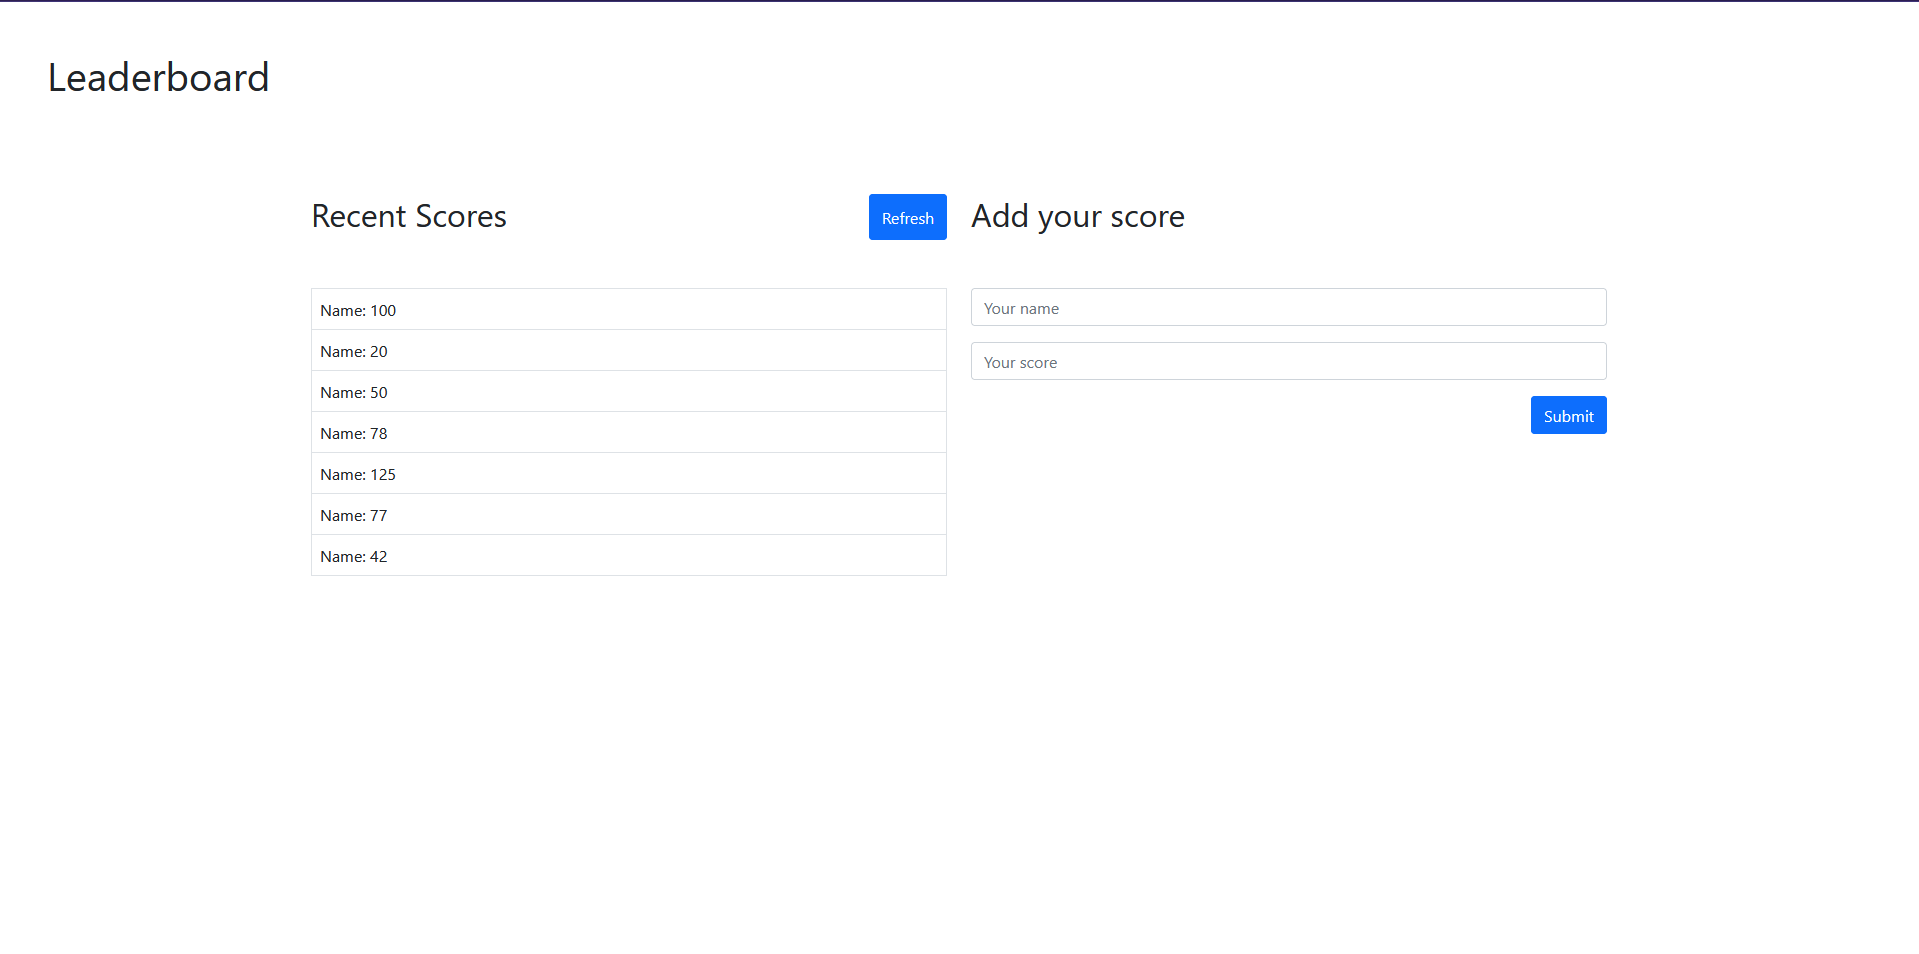
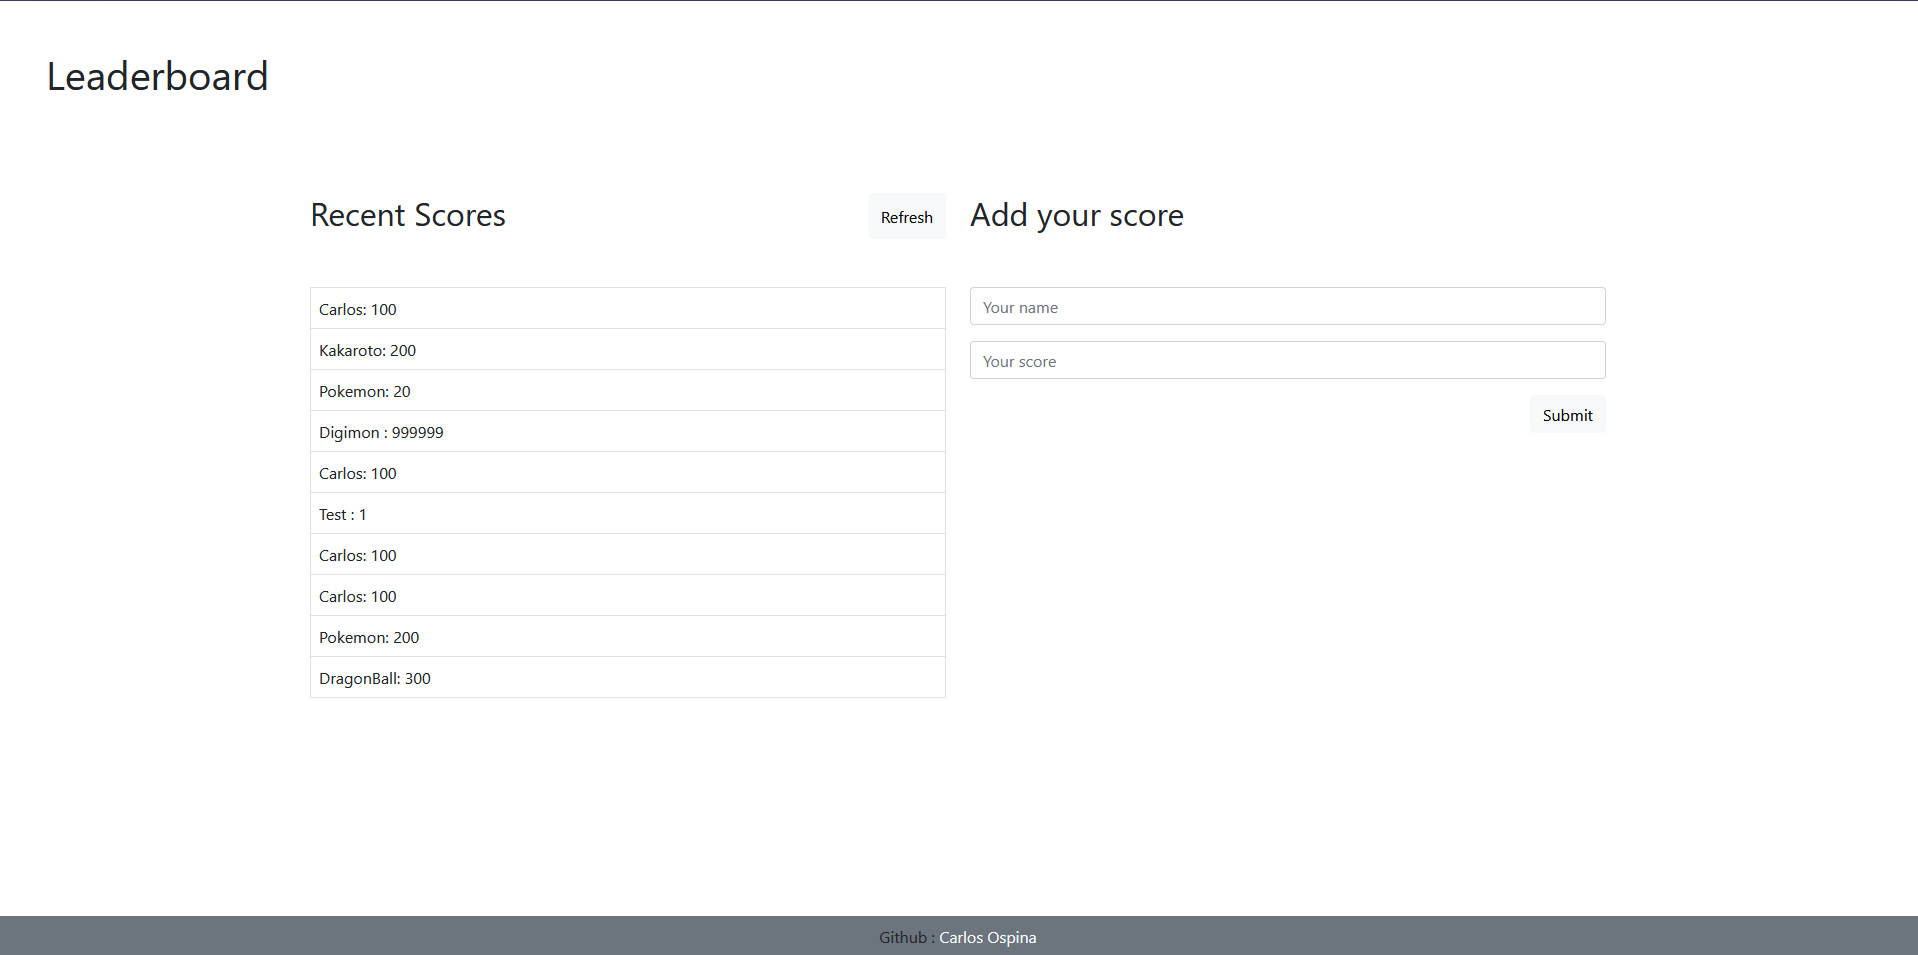
consuming API

diff --git a/dist/index.bundle.js b/dist/index.bundle.js
@@ -1,1 +1,1 @@
-(()=>{"use strict";var e,t,r,n,o,a,i,s,u,c,f,l,d,p,v={426:(e,t,r)=>{r.d(t,{Z:()=>a});var n=r(645),o=r.n(n)()((function(e){return e[1]}));o.push([e.id,"* {\r\n  font-style: normal;\r\n}\r\n",""]);const a=o},645:e=>{e.exports=function(e){var t=[];return t.toString=function(){return this.map((function(t){var r=e(t);return t[2]?"@media ".concat(t[2]," {").concat(r,"}"):r})).join("")},t.i=function(e,r,n){"string"==typeof e&&(e=[[null,e,""]]);var o={};if(n)for(var a=0;a<this.length;a++){var i=this[a][0];null!=i&&(o[i]=!0)}for(var s=0;s<e.length;s++){var u=[].concat(e[s]);n&&o[u[0]]||(r&&(u[2]?u[2]="".concat(r," and ").concat(u[2]):u[2]=r),t.push(u))}},t}},379:e=>{var t=[];function r(e){for(var r=-1,n=0;n<t.length;n++)if(t[n].identifier===e){r=n;break}return r}function n(e,n){for(var a={},i=[],s=0;s<e.length;s++){var u=e[s],c=n.base?u[0]+n.base:u[0],f=a[c]||0,l="".concat(c," ").concat(f);a[c]=f+1;var d=r(l),p={css:u[1],media:u[2],sourceMap:u[3]};-1!==d?(t[d].references++,t[d].updater(p)):t.push({identifier:l,updater:o(p,n),references:1}),i.push(l)}return i}function o(e,t){var r=t.domAPI(t);return r.update(e),function(t){if(t){if(t.css===e.css&&t.media===e.media&&t.sourceMap===e.sourceMap)return;r.update(e=t)}else r.remove()}}e.exports=function(e,o){var a=n(e=e||[],o=o||{});return function(e){e=e||[];for(var i=0;i<a.length;i++){var s=r(a[i]);t[s].references--}for(var u=n(e,o),c=0;c<a.length;c++){var f=r(a[c]);0===t[f].references&&(t[f].updater(),t.splice(f,1))}a=u}}},569:e=>{var t={};e.exports=function(e,r){var n=function(e){if(void 0===t[e]){var r=document.querySelector(e);if(window.HTMLIFrameElement&&r instanceof window.HTMLIFrameElement)try{r=r.contentDocument.head}catch(e){r=null}t[e]=r}return t[e]}(e);if(!n)throw new Error("Couldn't find a style target. This probably means that the value for the 'insert' parameter is invalid.");n.appendChild(r)}},216:e=>{e.exports=function(e){var t=document.createElement("style");return e.setAttributes(t,e.attributes),e.insert(t),t}},565:(e,t,r)=>{e.exports=function(e){var t=r.nc;t&&e.setAttribute("nonce",t)}},795:e=>{e.exports=function(e){var t=e.insertStyleElement(e);return{update:function(r){!function(e,t,r){var n=r.css,o=r.media,a=r.sourceMap;o?e.setAttribute("media",o):e.removeAttribute("media"),a&&"undefined"!=typeof btoa&&(n+="\n/*# sourceMappingURL=data:application/json;base64,".concat(btoa(unescape(encodeURIComponent(JSON.stringify(a))))," */")),t.styleTagTransform(n,e)}(t,e,r)},remove:function(){!function(e){if(null===e.parentNode)return!1;e.parentNode.removeChild(e)}(t)}}}},589:e=>{e.exports=function(e,t){if(t.styleSheet)t.styleSheet.cssText=e;else{for(;t.firstChild;)t.removeChild(t.firstChild);t.appendChild(document.createTextNode(e))}}}},m={};function h(e){var t=m[e];if(void 0!==t)return t.exports;var r=m[e]={id:e,exports:{}};return v[e](r,r.exports,h),r.exports}h.n=e=>{var t=e&&e.__esModule?()=>e.default:()=>e;return h.d(t,{a:t}),t},h.d=(e,t)=>{for(var r in t)h.o(t,r)&&!h.o(e,r)&&Object.defineProperty(e,r,{enumerable:!0,get:t[r]})},h.o=(e,t)=>Object.prototype.hasOwnProperty.call(e,t),e=h(379),t=h.n(e),r=h(795),n=h.n(r),o=h(569),a=h.n(o),i=h(565),s=h.n(i),u=h(216),c=h.n(u),f=h(589),l=h.n(f),d=h(426),(p={}).styleTagTransform=l(),p.setAttributes=s(),p.insert=a().bind(null,"head"),p.domAPI=n(),p.insertStyleElement=c(),t()(d.Z,p),d.Z&&d.Z.locals&&d.Z.locals})();
+(()=>{"use strict";var e={426:(e,t,n)=>{n.d(t,{Z:()=>a});var r=n(645),o=n.n(r)()((function(e){return e[1]}));o.push([e.id,"* {\r\n  font-style: normal;\r\n}\r\n",""]);const a=o},645:e=>{e.exports=function(e){var t=[];return t.toString=function(){return this.map((function(t){var n=e(t);return t[2]?"@media ".concat(t[2]," {").concat(n,"}"):n})).join("")},t.i=function(e,n,r){"string"==typeof e&&(e=[[null,e,""]]);var o={};if(r)for(var a=0;a<this.length;a++){var c=this[a][0];null!=c&&(o[c]=!0)}for(var i=0;i<e.length;i++){var s=[].concat(e[i]);r&&o[s[0]]||(n&&(s[2]?s[2]="".concat(n," and ").concat(s[2]):s[2]=n),t.push(s))}},t}},379:e=>{var t=[];function n(e){for(var n=-1,r=0;r<t.length;r++)if(t[r].identifier===e){n=r;break}return n}function r(e,r){for(var a={},c=[],i=0;i<e.length;i++){var s=e[i],u=r.base?s[0]+r.base:s[0],d=a[u]||0,l="".concat(u," ").concat(d);a[u]=d+1;var f=n(l),p={css:s[1],media:s[2],sourceMap:s[3]};-1!==f?(t[f].references++,t[f].updater(p)):t.push({identifier:l,updater:o(p,r),references:1}),c.push(l)}return c}function o(e,t){var n=t.domAPI(t);return n.update(e),function(t){if(t){if(t.css===e.css&&t.media===e.media&&t.sourceMap===e.sourceMap)return;n.update(e=t)}else n.remove()}}e.exports=function(e,o){var a=r(e=e||[],o=o||{});return function(e){e=e||[];for(var c=0;c<a.length;c++){var i=n(a[c]);t[i].references--}for(var s=r(e,o),u=0;u<a.length;u++){var d=n(a[u]);0===t[d].references&&(t[d].updater(),t.splice(d,1))}a=s}}},569:e=>{var t={};e.exports=function(e,n){var r=function(e){if(void 0===t[e]){var n=document.querySelector(e);if(window.HTMLIFrameElement&&n instanceof window.HTMLIFrameElement)try{n=n.contentDocument.head}catch(e){n=null}t[e]=n}return t[e]}(e);if(!r)throw new Error("Couldn't find a style target. This probably means that the value for the 'insert' parameter is invalid.");r.appendChild(n)}},216:e=>{e.exports=function(e){var t=document.createElement("style");return e.setAttributes(t,e.attributes),e.insert(t),t}},565:(e,t,n)=>{e.exports=function(e){var t=n.nc;t&&e.setAttribute("nonce",t)}},795:e=>{e.exports=function(e){var t=e.insertStyleElement(e);return{update:function(n){!function(e,t,n){var r=n.css,o=n.media,a=n.sourceMap;o?e.setAttribute("media",o):e.removeAttribute("media"),a&&"undefined"!=typeof btoa&&(r+="\n/*# sourceMappingURL=data:application/json;base64,".concat(btoa(unescape(encodeURIComponent(JSON.stringify(a))))," */")),t.styleTagTransform(r,e)}(t,e,n)},remove:function(){!function(e){if(null===e.parentNode)return!1;e.parentNode.removeChild(e)}(t)}}}},589:e=>{e.exports=function(e,t){if(t.styleSheet)t.styleSheet.cssText=e;else{for(;t.firstChild;)t.removeChild(t.firstChild);t.appendChild(document.createTextNode(e))}}}},t={};function n(r){var o=t[r];if(void 0!==o)return o.exports;var a=t[r]={id:r,exports:{}};return e[r](a,a.exports,n),a.exports}n.n=e=>{var t=e&&e.__esModule?()=>e.default:()=>e;return n.d(t,{a:t}),t},n.d=(e,t)=>{for(var r in t)n.o(t,r)&&!n.o(e,r)&&Object.defineProperty(e,r,{enumerable:!0,get:t[r]})},n.o=(e,t)=>Object.prototype.hasOwnProperty.call(e,t),(()=>{var e=n(379),t=n.n(e),r=n(795),o=n.n(r),a=n(569),c=n.n(a),i=n(565),s=n.n(i),u=n(216),d=n.n(u),l=n(589),f=n.n(l),p=n(426),v={};v.styleTagTransform=f(),v.setAttributes=s(),v.insert=c().bind(null,"head"),v.domAPI=o(),v.insertStyleElement=d(),t()(p.Z,v),p.Z&&p.Z.locals&&p.Z.locals;const m="https://us-central1-js-capstone-backend.cloudfunctions.net/api/games/wzWC5pdBI4Y9dgslTrV2/scores/",h=document.querySelector("tbody"),y=async()=>{await fetch(m).then((e=>e.json())).then((e=>{h.innerHTML="",e.result.forEach((e=>{const t=document.createElement("tr"),n=document.createElement("td");n.innerHTML=`${e.user}: ${e.score}`,t.appendChild(n),h.appendChild(t)}))}))};y(),document.querySelector("#refresh").addEventListener("click",y),document.querySelector("#submit").addEventListener("click",(async()=>{const e=document.querySelector("#user"),t=document.querySelector("#score");await fetch(m,{method:"POST",body:JSON.stringify({user:e.value,score:Number(t.value)}),headers:{"Content-type":"application/json; charset=UTF-8"}}),e.value="",t.value="",y()}))})()})();

diff --git a/dist/index.html b/dist/index.html
@@ -1,1 +1,1 @@
-<!doctype html><html lang="en"><head><meta charset="UTF-8"/><meta name="viewport" content="width=device-width,initial-scale=1"/><title>Leaderboard</title><link rel="icon" type="image/png" href="favicon.png"/><link href="https://cdn.jsdelivr.net/npm/bootstrap@5.0.2/dist/css/bootstrap.min.css" rel="stylesheet" integrity="sha384-EVSTQN3/azprG1Anm3QDgpJLIm9Nao0Yz1ztcQTwFspd3yD65VohhpuuCOmLASjC" crossorigin="anonymous"/><script src="https://cdn.jsdelivr.net/npm/bootstrap@5.0.2/dist/js/bootstrap.bundle.min.js" integrity="sha384-MrcW6ZMFYlzcLA8Nl+NtUVF0sA7MsXsP1UyJoMp4YLEuNSfAP+JcXn/tWtIaxVXM" crossorigin="anonymous"></script><link rel="stylesheet" href="https://cdn.jsdelivr.net/npm/bootstrap-icons@1.5.0/font/bootstrap-icons.css"><script defer="defer" src="index.bundle.js"></script></head><body class="d-flex flex-column min-vh-100"><header><h1 class="m-5">Leaderboard</h1></header><div class="container"><div class="row"><div class="col"><div class="d-flex justify-content-between py-5"><h2>Recent Scores</h2><button type="button" class="btn btn-light">Refresh</button></div><table class="table table-bordered"><tr><td>Name: 100</td></tr><tr><td>Name: 20</td></tr><tr><td>Name: 50</td></tr><tr><td>Name: 78</td></tr><tr><td>Name: 125</td></tr><tr><td>Name: 77</td></tr><tr><td>Name: 42</td></tr></table></div><div class="col"><h2 class="py-5">Add your score</h2><input class="form-control" placeholder="Your name"> <input class="form-control my-3" placeholder="Your score"><div class="d-flex justify-content-end"><button type="button" class="btn btn-light">Submit</button></div></div></div></div><footer class="mt-auto bg-secondary py-2 text-center"><span>Github : </span><a class="text-white text-decoration-none" href="https://github.com/carloso0114">Carlos Ospina</a></footer></body></html>
+<!doctype html><html lang="en"><head><meta charset="UTF-8"/><meta name="viewport" content="width=device-width,initial-scale=1"/><title>Leaderboard</title><link rel="icon" type="image/png" href="favicon.png"/><link href="https://cdn.jsdelivr.net/npm/bootstrap@5.0.2/dist/css/bootstrap.min.css" rel="stylesheet" integrity="sha384-EVSTQN3/azprG1Anm3QDgpJLIm9Nao0Yz1ztcQTwFspd3yD65VohhpuuCOmLASjC" crossorigin="anonymous"/><script src="https://cdn.jsdelivr.net/npm/bootstrap@5.0.2/dist/js/bootstrap.bundle.min.js" integrity="sha384-MrcW6ZMFYlzcLA8Nl+NtUVF0sA7MsXsP1UyJoMp4YLEuNSfAP+JcXn/tWtIaxVXM" crossorigin="anonymous"></script><link rel="stylesheet" href="https://cdn.jsdelivr.net/npm/bootstrap-icons@1.5.0/font/bootstrap-icons.css"><script defer="defer" src="index.bundle.js"></script></head><body class="d-flex flex-column min-vh-100"><header><h1 class="m-5">Leaderboard</h1></header><div class="container"><div class="row"><div class="col"><div class="d-flex justify-content-between py-5"><h2>Recent Scores</h2><button type="button" id="refresh" class="btn btn-light">Refresh</button></div><table class="table table-bordered"><tbody></tbody></table></div><div class="col"><h2 class="py-5">Add your score</h2><input id="user" class="form-control" placeholder="Your name"> <input id="score" class="form-control my-3" placeholder="Your score"><div class="d-flex justify-content-end"><button type="button" id="submit" class="btn btn-light">Submit</button></div></div></div></div><footer class="mt-auto bg-secondary py-2 text-center"><span>Github : </span><a class="text-white text-decoration-none" href="https://github.com/carloso0114">Carlos Ospina</a></footer></body></html>

diff --git a/src/index.html b/src/index.html
@@ -23,44 +23,26 @@
       <div class="col">
         <div class="d-flex justify-content-between py-5">
           <h2>Recent Scores</h2>
-          <button type="button" class="btn btn-light">Refresh</button>
+          <button type="button" id="refresh" class="btn btn-light">Refresh</button>
         </div>
         <table class="table table-bordered">
-          <tr>
-            <td>Name: 100</td>
-          </tr>
-          <tr>
-            <td>Name: 20</td>
-          </tr>
-          <tr>
-            <td>Name: 50</td>
-          </tr>
-          <tr>
-            <td>Name: 78</td>
-          </tr>
-          <tr>
-            <td>Name: 125</td>
-          </tr>
-          <tr>
-            <td>Name: 77</td>
-          </tr>
-          <tr>
-            <td>Name: 42</td>
-          </tr>
+          <tbody>
+          </tbody>
         </table>
       </div>
       <div class="col">
         <h2 class="py-5">Add your score</h2>
-        <input type="text" class="form-control " placeholder="Your name">
-        <input type="text" class="form-control my-3" placeholder="Your score">
+        <input type="text" id="user" class="form-control " placeholder="Your name">
+        <input type="text" id="score" class="form-control my-3" placeholder="Your score">
         <div class="d-flex justify-content-end">
-        <button type="button" class="btn btn-light">Submit</button>
+          <button type="button" id="submit" class="btn btn-light">Submit</button>
         </div>
       </div>
     </div>
   </div>
   <footer class="mt-auto bg-secondary py-2 text-center">
-    <span>Github : </span><a class="text-white text-decoration-none" href="https://github.com/carloso0114">Carlos Ospina</a>
+    <span>Github : </span><a class="text-white text-decoration-none" href="https://github.com/carloso0114">Carlos
+      Ospina</a>
   </footer>
 </body>
 

diff --git a/src/index.js b/src/index.js
@@ -1,1 +1,44 @@
 import './style.css';
+
+const api = 'https://us-central1-js-capstone-backend.cloudfunctions.net/api/games/wzWC5pdBI4Y9dgslTrV2/scores/'
+
+const tbodySelector = document.querySelector('tbody')
+
+const refreshScore = async () => {
+  await fetch(api)
+    .then(response => response.json())
+    .then((json) => {
+      tbodySelector.innerHTML = '';
+      json.result.forEach((element) => {
+        const tr = document.createElement('tr');
+        const td = document.createElement('td');
+        td.innerHTML = `${element.user}: ${element.score}`;
+        tr.appendChild(td);
+        tbodySelector.appendChild(tr);
+      });
+    });
+};
+refreshScore();
+const refreshBtn = document.querySelector('#refresh')
+refreshBtn.addEventListener('click', refreshScore);
+
+const addScores = async () => {
+  const userInput = document.querySelector('#user')
+  const scoreInput = document.querySelector('#score')
+  await fetch(api, {
+    method: 'POST',
+    body: JSON.stringify({
+      user: userInput.value,
+      score: Number(scoreInput.value),
+    }),
+    headers: {
+      'Content-type': 'application/json; charset=UTF-8',
+    },
+  })
+  userInput.value = '';
+  scoreInput.value = '';
+  refreshScore();
+};
+
+const submitBtn = document.querySelector('#submit')
+submitBtn.addEventListener('click', addScores);

diff --git a/README.md b/README.md
@@ -2,7 +2,7 @@
 
 # Leaderboard
 
-> The basic structure of the project.
+> The basic structure of the project plus api consuming, sending and getting data.
 
 ![screenshot](./app_screenshot.png)
 
